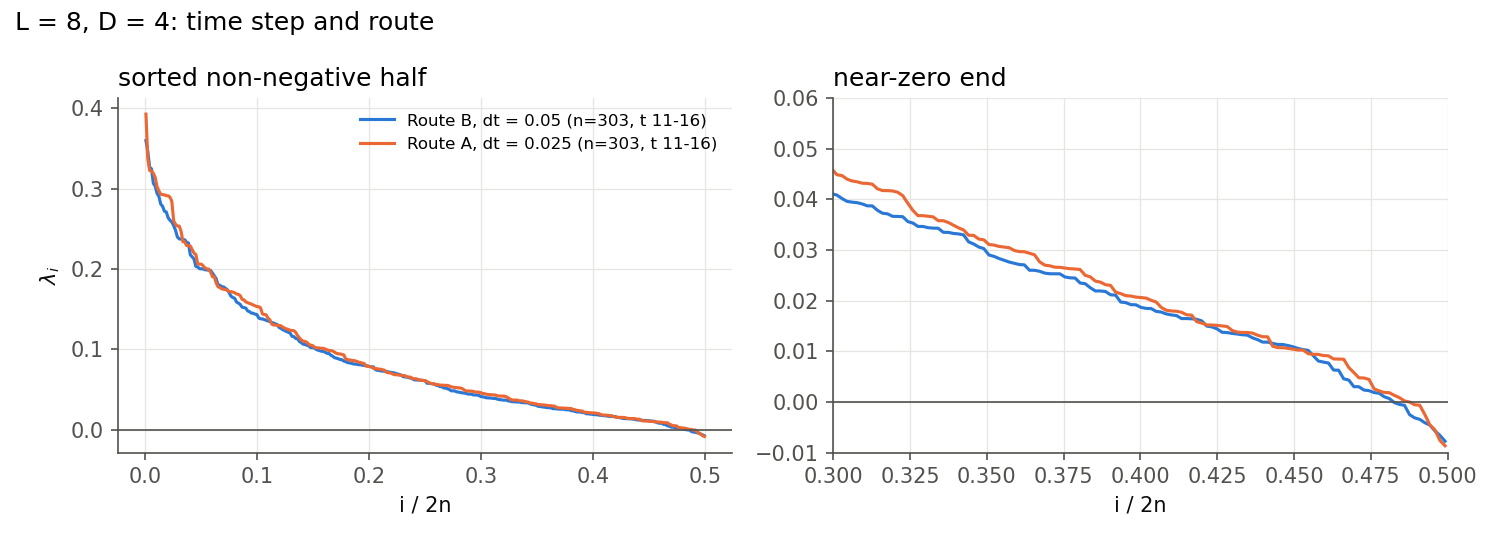
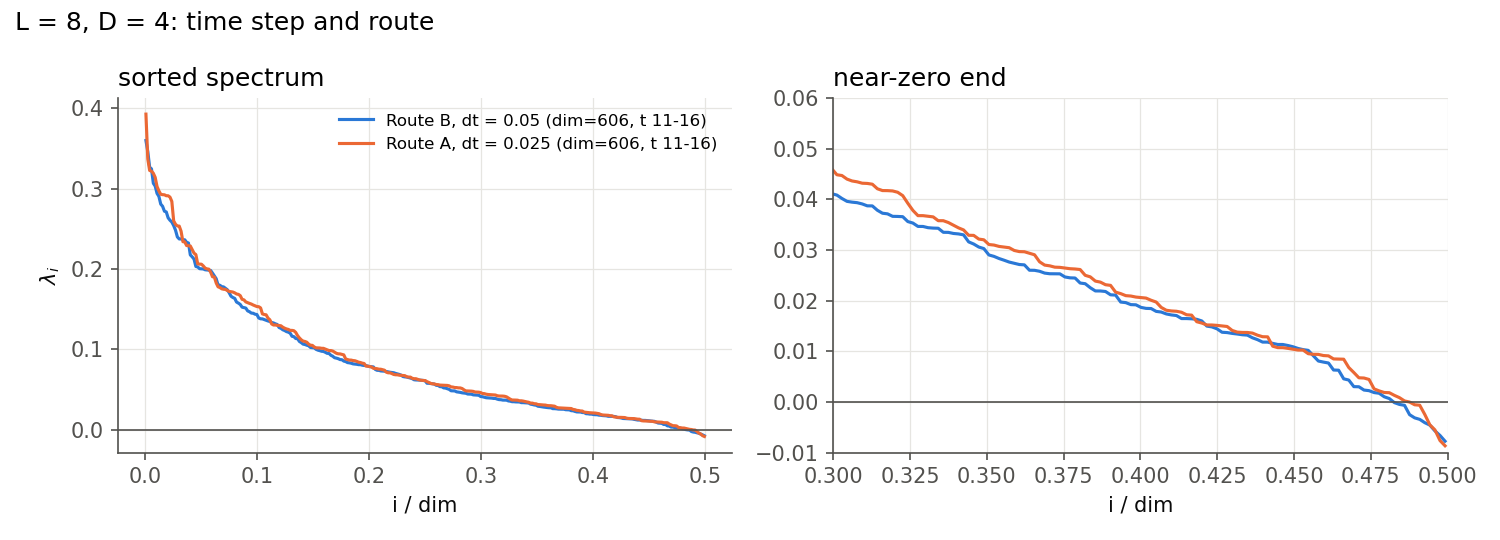
Even-sector L scan: the spectrum collapses in L but lambda_max does not
L = 12 and L = 16 at D = 4, beta = 0.1, --sector even --symmetrize-every 1,
250 blocks. Sector dimensions 538/452 and 746/628; a_odd held at 1e-8 with
compression cuts of 5e-15.

Also normalize compare_runs' abscissa by the dimension a run covers in
full, so a restricted run's curve lands on the same axis as a k = 2n one.

diff --git a/lyapunov/tdvp_lyapunov/compare_runs.py b/lyapunov/tdvp_lyapunov/compare_runs.py
@@ -1,7 +1,9 @@
 """
-Cross-run comparison figures: sorted half spectra against i/2n (the
-extensivity collapse), for an L scan at fixed D, a D scan at fixed L, and
-the dt/route check. All exponents averaged over the same time window.
+Cross-run comparison figures: sorted spectra against i/dim (the extensivity
+collapse), for L and D scans -- unrestricted and even-sector -- the swap
+projection check, and the dt/route check. All exponents averaged over the
+same time window. dim is 2n, or the sector dimension for a restricted run,
+so the two families share an abscissa.
 
     python lyapunov/tdvp_lyapunov/compare_runs.py [--t-min 11]
 
@@ -33,6 +35,16 @@ SCANS = {
         ('D = 8',  f'{RUNS}/L8_D8_beta0.1_k2n_ns.h5'),
         ('D = 12', f'{RUNS}/L8_D12_beta0.1_k2n.h5'),
     ]),
+    'L_scan_beta0.1_even': ('beta = 0.1, D = 4, L scan, even sector', [
+        ('L = 8',  f'{RUNS}/L8_D4_beta0.1_even_sym.h5'),
+        ('L = 12', f'{RUNS}/L12_D4_beta0.1_even_sym.h5'),
+        ('L = 16', f'{RUNS}/L16_D4_beta0.1_even_sym.h5'),
+    ]),
+    'D_scan_beta0.1_even': ('beta = 0.1, L = 8, D scan, even sector', [
+        ('D = 4',  f'{RUNS}/L8_D4_beta0.1_even_sym.h5'),
+        ('D = 8',  f'{RUNS}/L8_D8_beta0.1_even_sym.h5'),
+        ('D = 12', f'{RUNS}/L8_D12_beta0.1_even_sym.h5'),
+    ]),
     'swap_sym_D12': ('L = 8, D = 12: with and without the swap-even '
                      'projection through the transient', [
         ('D = 12, plain',        f'{RUNS}/L8_D12_beta0.1_k2n.h5'),
@@ -51,21 +63,28 @@ def windowed_exponents(path, t_min, t_max=np.inf):
     m = (run['t'] > t_min) & (run['t'] <= t_max)
     ld = run['log_diag'][m]
     lam = ld.sum(0) / (m.sum() * run['tau'] * run['dt'])
-    return np.sort(lam)[::-1], run['n'], run['t'][m][[0, -1]]
+    # normalize the index by the dimension the run covers completely: 2n for
+    # a k = 2n run, the sector dimension for a restricted one. Both are
+    # symplectic, so i/dim is the same abscissa and the curves overlay.
+    k, sector = int(run['k']), int(run.get('sector', 0))
+    whole_sector = sector and k == int(run.get('sector_dim', k))
+    dim = k if whole_sector else 2 * int(run['n'])
+    return np.sort(lam)[::-1], dim, run['t'][m][[0, -1]]
 
 
 def plot_scan(title, entries, t_min, t_max=np.inf):
     fig, ax = plt.subplots(1, 2, figsize=(10, 3.6))
     for color, (label, path) in zip([BLUE, ORANGE, AQUA], entries):
-        lam, n, (ta, tb) = windowed_exponents(path, t_min, t_max)
-        x = (np.arange(len(lam)) + 0.5) / (2 * n)
-        ax[0].plot(x, lam, color=color, label=f'{label} (n={n}, t {ta:.0f}-{tb:.0f})')
+        lam, dim, (ta, tb) = windowed_exponents(path, t_min, t_max)
+        x = (np.arange(len(lam)) + 0.5) / dim
+        ax[0].plot(x, lam, color=color,
+                   label=f'{label} (dim={dim}, t {ta:.0f}-{tb:.0f})')
         ax[1].plot(x, lam, color=color)
     for a in ax:
         a.axhline(0, color=MUTED, lw=0.8)
-        a.set_xlabel('i / 2n')
+        a.set_xlabel('i / dim')
     ax[0].set_ylabel(r'$\lambda_i$')
-    ax[0].set_title('sorted non-negative half', loc='left')
+    ax[0].set_title('sorted spectrum', loc='left')
     ax[0].legend(frameon=False, fontsize=8)
     ax[1].set_xlim(0.3, 0.5)
     ax[1].set_ylim(-0.01, 0.06)

diff --git a/lyapunov/tdvp_lyapunov/README.md b/lyapunov/tdvp_lyapunov/README.md
@@ -454,7 +454,8 @@ All runs under `H_sym` with `SEED_NOISE = 0`: 250 blocks at dt = 0.05, a
 transient steps). h5 in `C:\Users\charl\lyapunov_runs`; figures
 `figures/<run>_{spectrum,convergence,pairing}.png` and `compare_*.png`.
 
-The **even-sector** runs (2026-09-24) are the ones to quote. In the
+The **even-sector** runs (D scan 2026-09-24, L scan 2026-09-25) are the
+ones to quote. In the
 2026-09-21 `k = 2n` set the swap symmetry of the state was uncontrolled and
 differs across the set — `a_odd` = 9e-4 at D = 4, 0.70 at D = 8, 0.68
 *before the first block* at D = 12 — so its D dependence compares runs that
@@ -465,6 +466,8 @@ differ in more than D. See [`SWAP_SYMMETRY.md`](SWAP_SYMMETRY.md).
 | L8_D4 even | 330 | +0.535 | −2.4e-3 | 4.4e-2 | 0.013 | 32.1 | 0.097 |
 | L8_D8 even | 1102 | +0.539 | −7.6e-3 | 1.1e-2 | 0.014 | 111.8 | 0.101 |
 | L8_D12 even | 2098 | +0.527 | −1.8e-2 | 9.5e-3 | 0.008 | 194.7 | 0.093 |
+| L12_D4 even | 538 | +0.693 | −1.4e-2 | 2.5e-2 | 0.027 | 56.5 | 0.105 |
+| L16_D4 even | 746 | +0.573 | −5.1e-2 | 2.3e-2 | 0.011 | 78.6 | 0.105 |
 | L8_D4 | 606 | +0.575 | −3.6e-3 | 1.5e-2 | 0.014 | 62.6 | 0.103 |
 | L8_D8_ns | 1918 | +0.615 | −1.1e-2 | 1.4e-2 | 0.029 | 218.9 | 0.114 |
 | L8_D12 | 3934 | +0.522 | −3.1e-2 | 7.1e-3 | 0.005 | 393.6 | 0.100 |
@@ -487,13 +490,21 @@ the noise.
 **λ_max does not depend on D.** In the even sector it is 0.535 / 0.539 /
 0.527 at D = 4 / 8 / 12 — a spread of 0.012, inside every one of those runs'
 own noise floors, and the sorted spectra lie on one curve of `λ_i` against
-`i/2n`. The unrestricted numbers spread 0.09 and non-monotonically; that
+`i/dim`. The unrestricted numbers spread 0.09 and non-monotonically; that
 scatter was uncontrolled symmetry breaking, not a D trend. This supersedes
 both the earlier "D scan collapses" reading and the β = 1 reading of a
 strong non-monotone D dependence.
 
-The L scan has not been redone in the even sector. Its D = 4 points are the
-trustworthy part of the old set, since that state stayed symmetric to 9e-4.
+**In L the spectrum collapses; λ_max does not.** The five even-sector runs
+lie on one curve of `λ_i` against `i/dim` — rms 0.015–0.023 across the L
+scan, against convergence spreads of 0.011–0.027 — and Σλ⁺/k is 0.097 /
+0.105 / 0.105, so the flow is extensive in L. `λ_max` alone spreads 0.535 /
+0.693 / 0.573, and at L = 12 the top six exponents are stretched (mean
+spacing 0.026 against 0.006 at L = 8), so the top of that spectrum is
+detached from its bulk. Slow convergence of an extreme value or a real gap
+is not settled by one run; L = 12 also has the largest running spread. The unrestricted runs have the same
+non-monotone shape (0.575 / 0.710 / 0.638), so unlike the D scan this is not
+symmetry breaking. `figures/compare_L_scan_beta0.1_even.png`.
 
 ## Hydrodynamic modes: the template analysis (2026-09-17, k = 2n)
 

diff --git a/lyapunov/WORKFLOW.md b/lyapunov/WORKFLOW.md
@@ -357,11 +357,11 @@ before you commit. Big h5 files go outside OneDrive.
 
 ### L and D scan (β = 0.1, 250 blocks at dt = 0.05, transient 160, imag 240)
 
-Quote the **even-sector** runs (2026-09-24). The swap symmetry of the state
+Quote the **even-sector** runs (D scan 2026-09-24, L scan 2026-09-25). The swap symmetry of the state
 was uncontrolled in the 2026-09-21 `k = 2n` set and differs wildly across
 it — `a_odd` = 9e-4 at D = 4, 0.70 at D = 8, 0.68 *before the first block*
 at D = 12 — so its D dependence is not a controlled comparison; the even
-runs differ only in D. See
+runs differ only in the parameter scanned. See
 [`tdvp_lyapunov/SWAP_SYMMETRY.md`](tdvp_lyapunov/SWAP_SYMMETRY.md). Figures
 `<run>_{spectrum,convergence,pairing}.png`, `compare_*.png`.
 
@@ -370,6 +370,8 @@ runs differ only in D. See
 | L8_D4 even | 330 | +0.535 | −2.4e-3 | 4.4e-2 | 0.013 | 32.1 | 0.097 |
 | L8_D8 even | 1102 | +0.539 | −7.6e-3 | 1.1e-2 | 0.014 | 111.8 | 0.101 |
 | L8_D12 even | 2098 | +0.527 | −1.8e-2 | 9.5e-3 | 0.008 | 194.7 | 0.093 |
+| L12_D4 even | 538 | +0.693 | −1.4e-2 | 2.5e-2 | 0.027 | 56.5 | 0.105 |
+| L16_D4 even | 746 | +0.573 | −5.1e-2 | 2.3e-2 | 0.011 | 78.6 | 0.105 |
 | L8_D4 | 606 | +0.575 | −3.6e-3 | 1.5e-2 | 0.014 | 62.6 | 0.103 |
 | L8_D8_ns | 1918 | +0.615 | −1.1e-2 | 1.4e-2 | 0.029 | 218.9 | 0.114 |
 | L8_D12 | 3934 | +0.522 | −3.1e-2 | 7.1e-3 | 0.005 | 393.6 | 0.100 |
@@ -387,9 +389,16 @@ not the flow. This supersedes both "the D scan collapses" and the earlier
 β = 1 reading of a strong non-monotone D dependence; both of those, and the
 initial k = n, β = 1 scans, are superseded data.
 
-The L scan has not been redone in the even sector. At D = 4 the 2026-09-21
-state stayed symmetric to 9e-4, so those three points are the trustworthy
-part of the old set.
+**In L the spectrum collapses; λ_max does not.** The five even-sector runs
+lie on one curve of `λ_i` against `i/dim` — rms 0.015–0.023 across the L
+scan, against convergence spreads of 0.011–0.027 — and Σλ⁺/k is 0.097 /
+0.105 / 0.105, so the flow is extensive in L. `λ_max` alone spreads 0.535 /
+0.693 / 0.573, and at L = 12 the top six exponents are stretched (mean
+spacing 0.026 against 0.006 at L = 8), so the top of that spectrum is
+detached from its bulk. Slow convergence of an extreme value or a real gap
+is not settled by one run; L = 12 also has the largest running spread. The unrestricted runs have the same
+non-monotone shape (0.575 / 0.710 / 0.638), so unlike the D scan this is not
+symmetry breaking. `figures/compare_L_scan_beta0.1_even.png`.
 
 ### Temperature scan (2026-09-17)
 

diff --git a/lyapunov/tdvp_lyapunov/SWAP_SYMMETRY.md b/lyapunov/tdvp_lyapunov/SWAP_SYMMETRY.md
@@ -106,8 +106,9 @@ it tracks the swap-odd amplitude of the state,
 `a_odd = |(1 - S)psi / 2|`. Expect `|1 - lambda| ~ leak²`.
 
 Sector dimensions at the start of each production run (t = 8, `a_odd` 1e-8,
-Σ an involution to 2e-14): **330/276** at D = 4, **1102/816** at D = 8,
-**2098/1836** at D = 12. Even always exceeds odd, as the one-site picture
+Σ an involution to 2e-14): at L = 8, **330/276** at D = 4, **1102/816** at
+D = 8, **2098/1836** at D = 12; at D = 4, **538/452** at L = 12 and
+**746/628** at L = 16. Even always exceeds odd, as the one-site picture
 requires — the swap is transposition on a 2×2 matrix, 3 symmetric against 1
 antisymmetric — and the imbalance is `tr Σ = Σ_m tr W_m · tr Ũ_m`, which
 nothing forces to vanish. Read the split only at a clean point: an earlier
